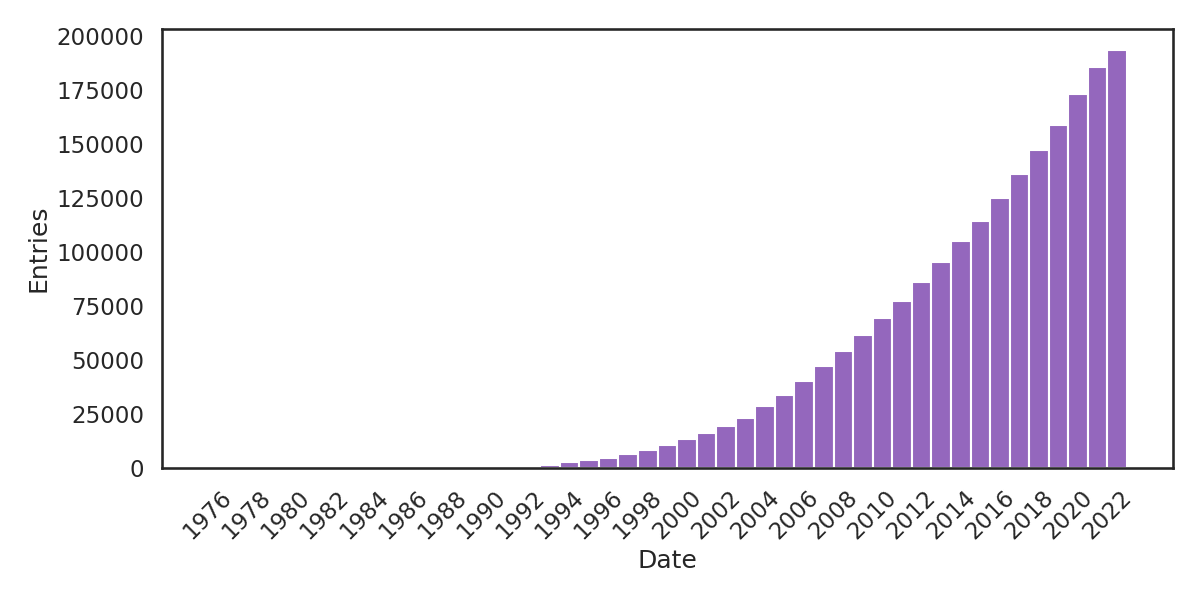
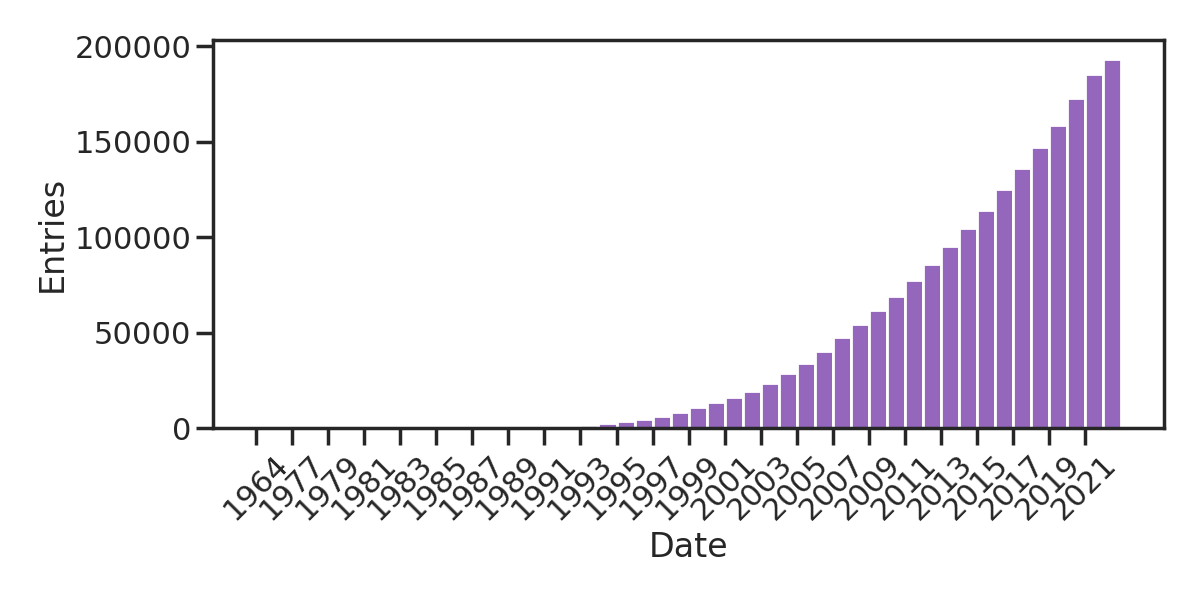
Changing plotting settings

Changed region(s): [[0.0308, 0.03, 0.9867, 0.96]]

diff --git a/plot-entries.py b/plot-entries.py
@@ -1,0 +1,145 @@
+"""
+A script for plotting the data which is available in the databases (case studies)
+discussed in the data-sharing perspective.
+"""
+import matplotlib.pyplot as plt
+import seaborn as sns
+import numpy as np
+from typing import Tuple
+
+# set Seaborn themes and color palettes
+sns.set_theme("poster", "ticks")
+palette1 = sns.color_palette("Paired")  # for visualizing data that comes in pairs
+palette2 = sns.color_palette("tab10")   # for visualizing other data
+
+# define some functions for loading the data
+def load_pubchem_data(filename : str) -> Tuple[list, list]:
+    with open(filename, "r") as input_data:
+        # read entries; each entry is a separate line
+        raw_input = input_data.read().split("\n")
+    
+        # parse the date and separate it from the source count
+        date, count = [], []
+        for line in raw_input[1:]:  # skip first row (header)
+            split_line = line.split(", ")
+            date.append(np.datetime64(split_line[0]))
+            count.append(int(split_line[1]))
+
+        return date, np.array(count)
+
+def load_chembl_data(filename : str) -> Tuple[list, list, list, list, list, list]:
+    with open(filename, "r") as input_data:
+        # read entries; each entry is a separate line
+        raw_input = input_data.read().split("\n")
+    
+        # parse the date and separate it from the source count
+        version, date, compounds, activities, assays, targets, documents= [], [], [], [], [], [], []
+        for line in raw_input[1:]:  # skip first row (header)
+            split_line = line.split(", ")
+            version.append(split_line[0])
+            date.append(np.datetime64(split_line[1]))
+            compounds.append(int(split_line[2]))
+            activities.append(int(split_line[3]))
+            assays.append(int(split_line[4]))
+            targets.append(int(split_line[5]))
+            documents.append(int(split_line[6]))
+    
+        return version, date, compounds, activities, assays, targets, documents
+
+def load_pdb_data(filename : str) -> Tuple[list, list, list]:
+    with open(filename, "r") as input_data:
+        # read entries; each entry is a separate line
+        raw_input = input_data.read().split("\n")
+    
+        # parse the date and separate it from the source count
+        date, total_entries, annual_entries = [], [], []
+        for line in raw_input[1:]:  # skip first row (header)
+            split_line = line.split(", ")
+            date.append(np.datetime64(split_line[0]))
+            total_entries.append(int(split_line[1]))
+            annual_entries.append(int(split_line[2]))
+    
+        return date, total_entries, annual_entries
+
+def load_csd_data(filename : str) -> Tuple[list, list, list]:
+    with open(filename, "r") as input_data:
+        # read entries; each entry is a separate line
+        raw_input = input_data.read().split("\n")
+    
+        # parse the date and separate it from the source count
+        date, annual_structures, ave_n_atoms_per_structure = [], [], []
+        for line in raw_input[1:]:  # skip first row (header)
+            split_line = line.split(", ")
+            date.append(np.datetime64(split_line[0]))
+            annual_structures.append(int(split_line[1]))
+            try:
+                ave_n_atoms_per_structure.append(int(split_line[2]))
+            except ValueError:
+                ave_n_atoms_per_structure.append(np.NAN)
+    
+        return date, annual_structures, ave_n_atoms_per_structure
+
+## PubChem
+# load the PubChem data
+substance_dates, substance_sources   = load_pubchem_data(filename="./data/pubchem-substance-sources.csv")
+assay_dates, assay_sources           = load_pubchem_data(filename="./data/pubchem-assay-sources.csv")
+RNAi_assay_dates, RNAi_assay_sources = load_pubchem_data(filename="./data/pubchem-RNAi-assay-sources.csv")
+
+# plot the PubChem data
+fig, ax = plt.subplots(1, 1, figsize=(15,5))
+x = np.arange(len(substance_dates))
+ax.plot(substance_dates, substance_sources, label=f"Substances", color=palette2[0])
+ax.plot(substance_dates, substance_sources+assay_sources, label=f"Assays", color=palette2[1])
+ax.plot(substance_dates, substance_sources+assay_sources+RNAi_assay_sources, label=f"RNAi assays", color=palette2[2])
+ax.legend()
+ax.set(xlabel="Date",
+       ylabel="Data sources",
+       xticks=substance_dates[1::23])
+ax.set_xticklabels(labels=substance_dates[1::23], rotation=67)
+fig.tight_layout()
+fig.savefig("pubchem-sources.png")
+
+## ChEMBL
+# load the ChEMBL data
+chembl_versions, chembl_dates, chembl_compounds, chembl_activities, chembl_assays, chembl_targets, chembl_documents = load_chembl_data(filename="./data/chembl-documents.csv")
+
+# plot the PubChem data
+fig, ax = plt.subplots(1, 1, figsize=(12,6))
+x = np.arange(len(chembl_dates))
+ax.bar(x=x, height=chembl_documents, color=palette2[3], width=1, align="edge")
+ax.set(xlabel="Date",
+       ylabel="Documents",
+       xticks=x[::2])
+ax.set_xticklabels(labels=chembl_dates[::2], rotation=45)
+fig.tight_layout()
+fig.savefig("chembl-documents.png")
+
+## PDB
+# load the PDB data
+pdb_dates, pdb_total_entries, pdb_annual_entries = load_pdb_data(filename="./data/pdb-entries.csv")
+
+# plot the PDB data
+fig, ax = plt.subplots(1, 1, figsize=(12,6))
+x = np.arange(len(pdb_dates))
+ax.bar(x=x, height=pdb_total_entries, color=palette2[4], width=1, align="edge")
+ax.set(xlabel="Date",
+       ylabel="Entries",
+       xticks=x[::2])
+ax.set_xticklabels(labels=pdb_dates[::2], rotation=45)
+fig.tight_layout()
+fig.savefig("pdb-entries.png")
+
+## CSD
+# load the CSD data
+csd_dates, csd_structures, csd_ave_n_atoms_per_structure = load_csd_data(filename="./data/csd-structures.csv")
+
+# plot the CSD data
+fig, ax = plt.subplots(1, 1, figsize=(12,6))
+x = np.arange(len(csd_dates))
+ax.bar(x=x, height=np.cumsum(csd_structures), color=palette2[5], width=1, align="edge")
+ax.set(xlabel="Date",
+       ylabel="Structures",
+       xticks=x[::2])
+ax.set_xticklabels(labels=csd_dates[::2], rotation=45)
+fig.tight_layout()
+fig.savefig("csd-structures.png")
